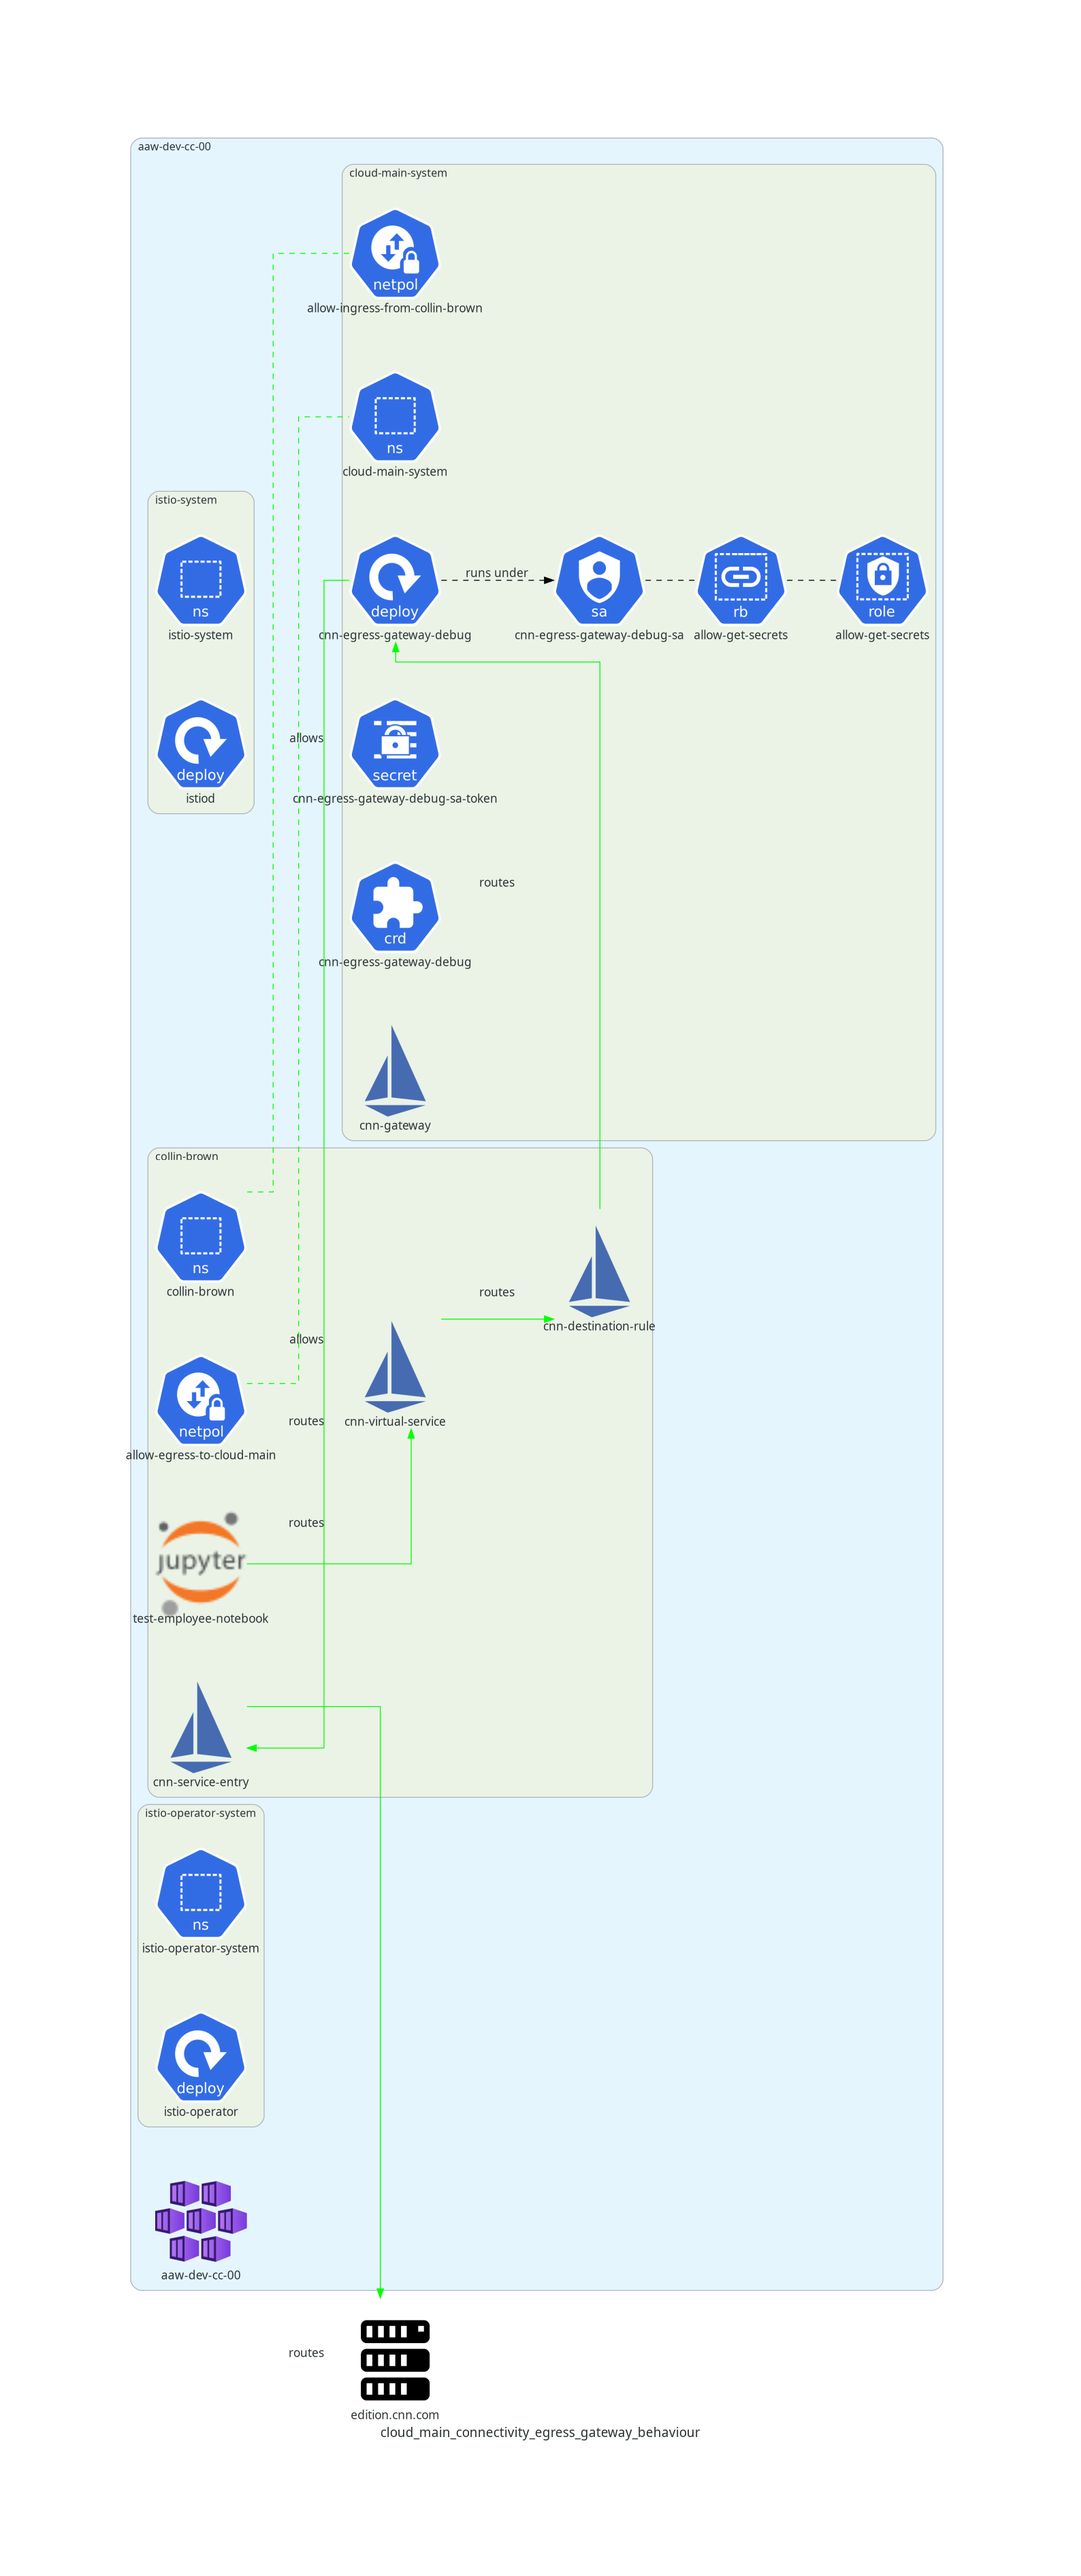
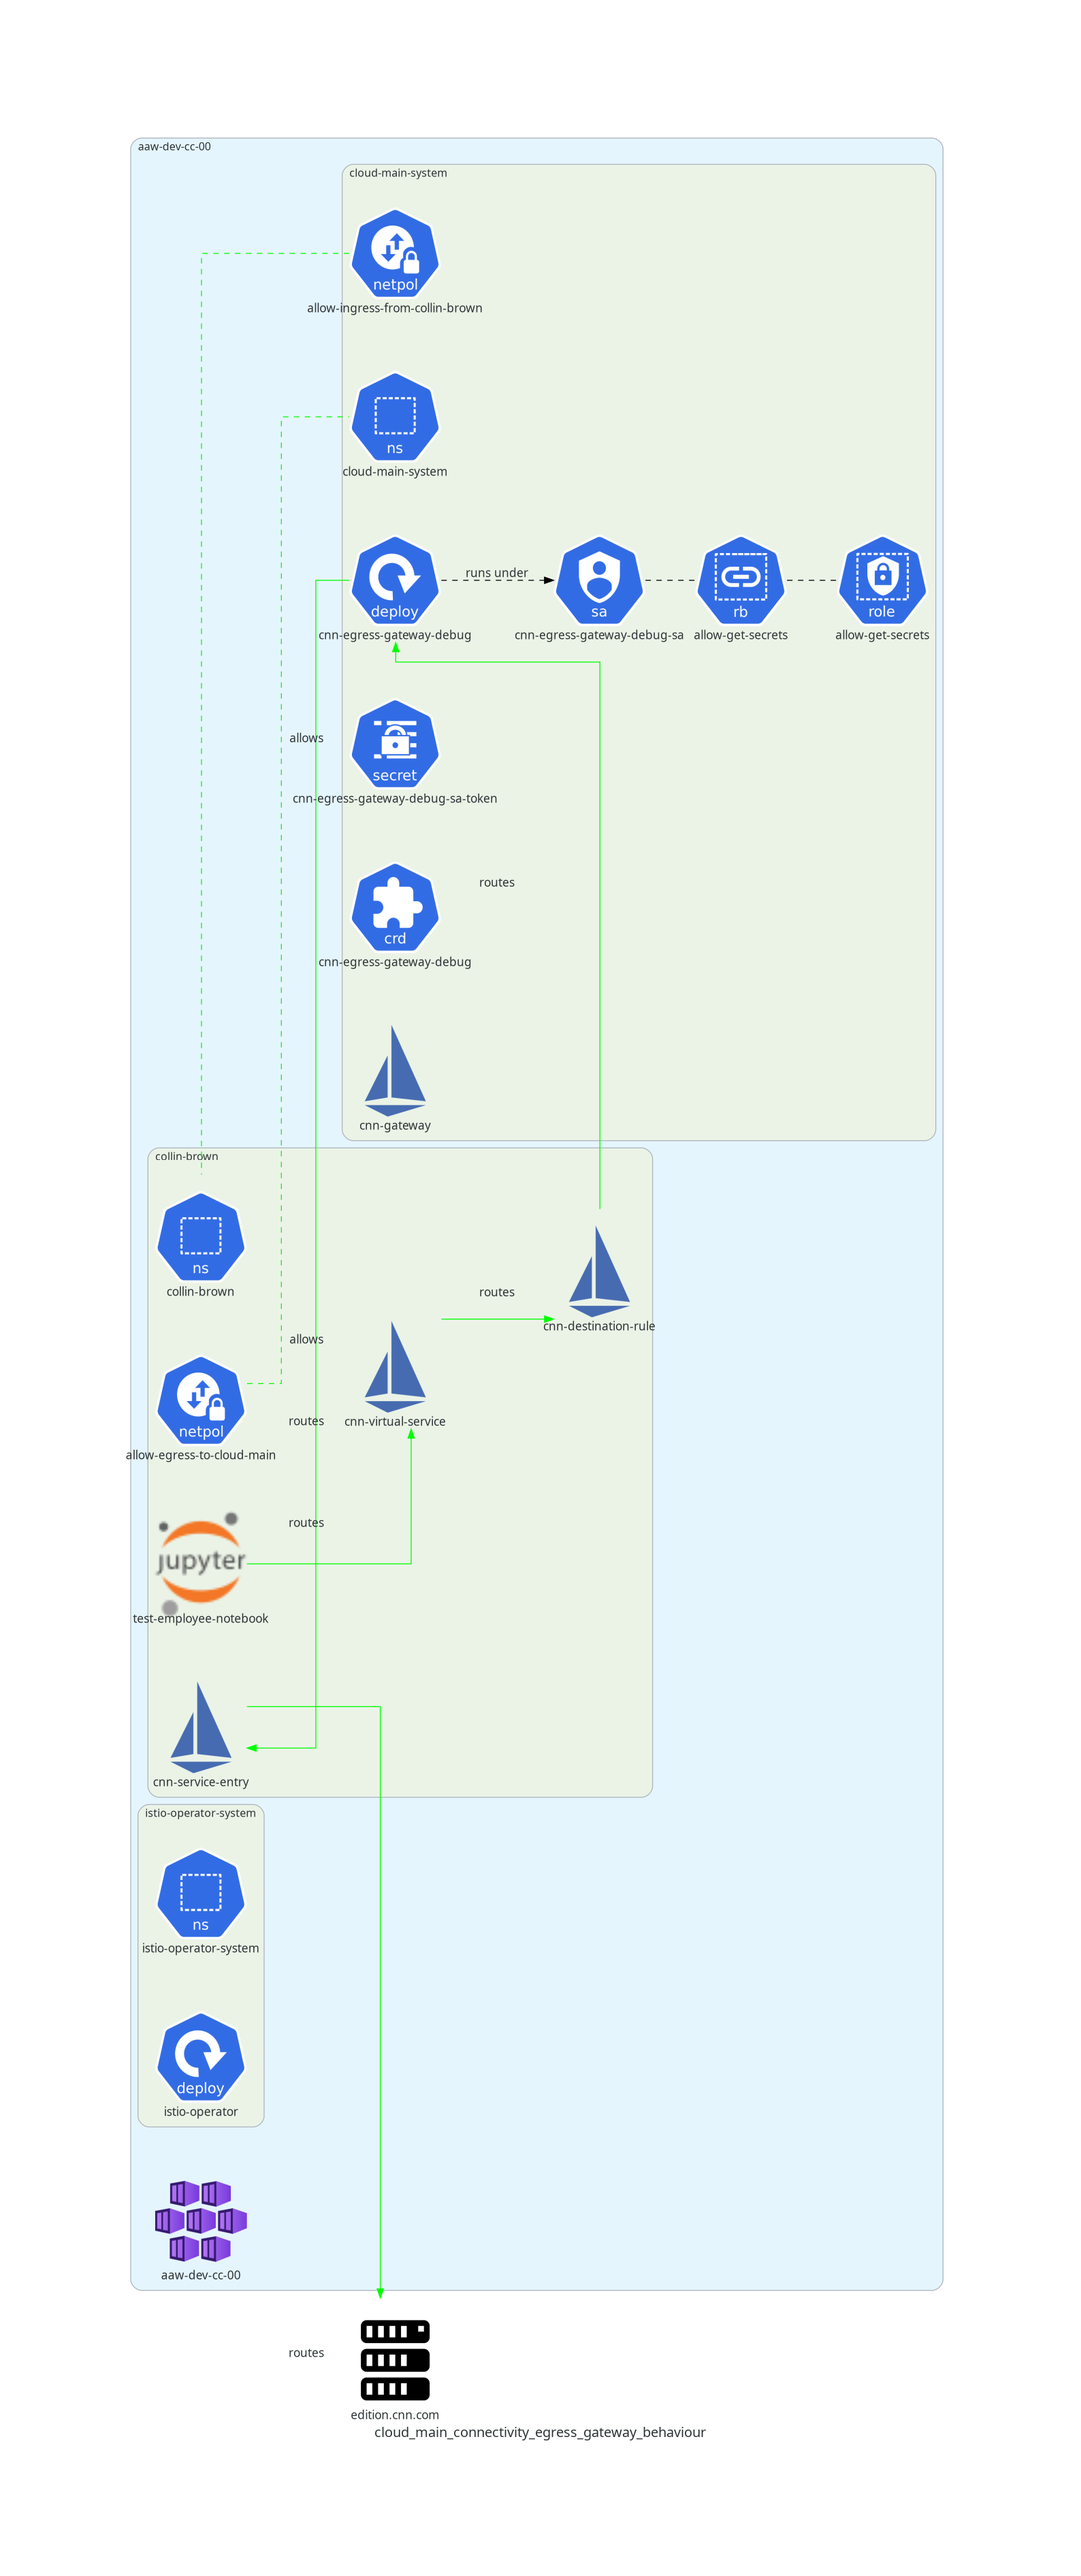
tidy(cloud-main-connectivity): remove istiod + istio-system namespace - profile is "empty" instead of "minimal", so istiod is never deployed

Changed region(s): [[0.1234, 0.1872, 0.2469, 0.312]]

diff --git a/docs/features/cloud-main-connectivity/cloud_main_connectivity_egress_gateway_deployed_components.py b/docs/features/cloud-main-connectivity/cloud_main_connectivity_egress_gateway_deployed_components.py
@@ -27,9 +27,6 @@ with Diagram(myself(), show=False):
         with Cluster("istio-operator-system"):
             istio_operator_system_ns = NS("istio-operator-system")
             istio_operator_controller = Deployment("istio-operator")
-        with Cluster("istio-system"):
-            istio_system_ns = NS("istio-system")
-            istio_daemon = Deployment("istiod")
         with Cluster("cloud-main-system"):
             cloud_main_system_ns = NS("cloud-main-system")
             cnn_egress_gateway_debug = Deployment("cnn-egress-gateway-debug")
@@ -55,8 +52,6 @@ with Diagram(myself(), show=False):
 
         # Istio Operator Controller watches a set of namespaces for deployments of IstioOperator resources
         istio_operator_controller >> Edge(style="dashed", color="black", label="watches") >> cloud_main_system_ns
-        # IstioOperator currently uses minimal profile and deploys istiod into istio-system namespace
-        istio_operator >> Edge(style="dashed", color="purple", label="deploys") >> istio_daemon
         # IstioOperator currently deploys an egress gateway into the `cloud-main-system` namespace
         istio_operator >> Edge(style="dashed", color="purple", label="deploys") >> cnn_egress_gateway_debug
         # IstioOperator deploys service account and secret with service account JWT into cloud-main-system namespace

diff --git a/docs/features/cloud-main-connectivity/cloud_main_connectivity_egress_gateway_behaviour.py b/docs/features/cloud-main-connectivity/cloud_main_connectivity_egress_gateway_behaviour.py
@@ -27,9 +27,6 @@ with Diagram(myself(), show=False):
         with Cluster("istio-operator-system"):
             istio_operator_system_ns = NS("istio-operator-system")
             istio_operator_controller = Deployment("istio-operator")
-        with Cluster("istio-system"):
-            istio_system_ns = NS("istio-system")
-            istio_daemon = Deployment("istiod")
         with Cluster("cloud-main-system"):
             cloud_main_system_ns = NS("cloud-main-system")
             cnn_egress_gateway_debug = Deployment("cnn-egress-gateway-debug")
